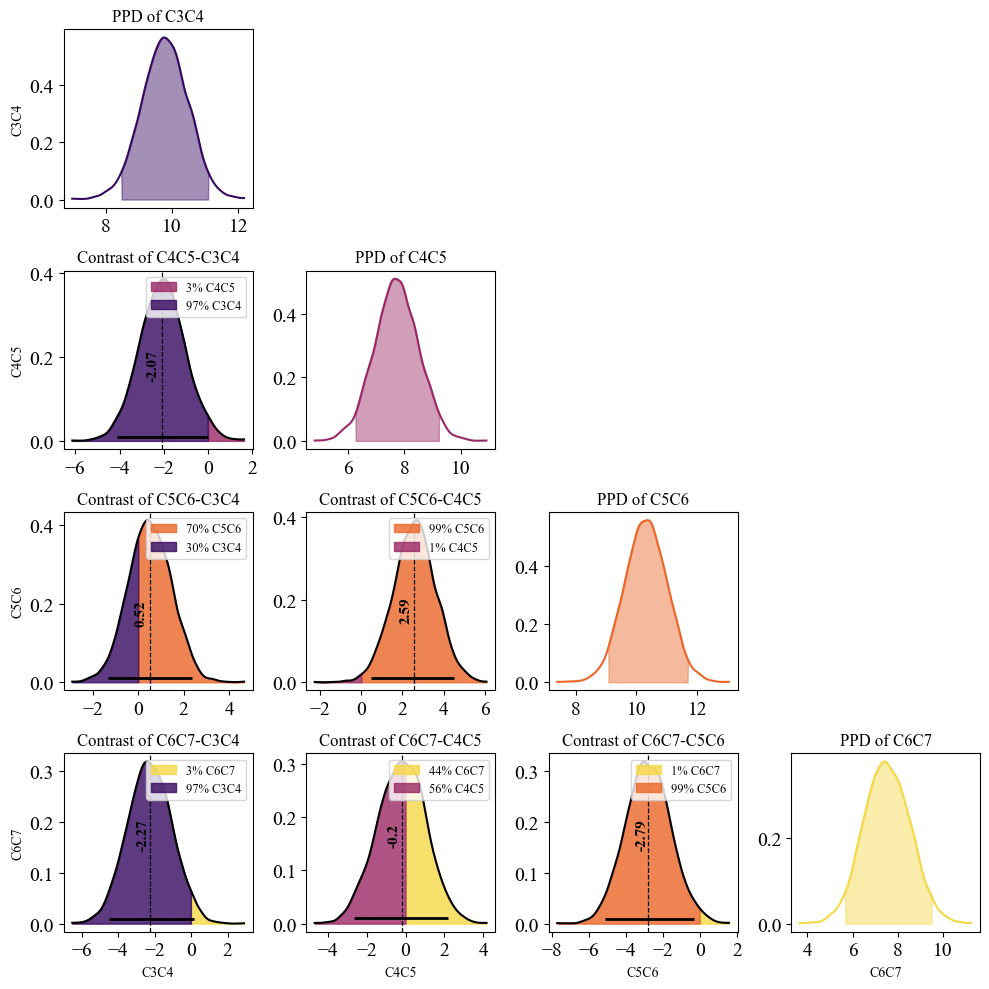
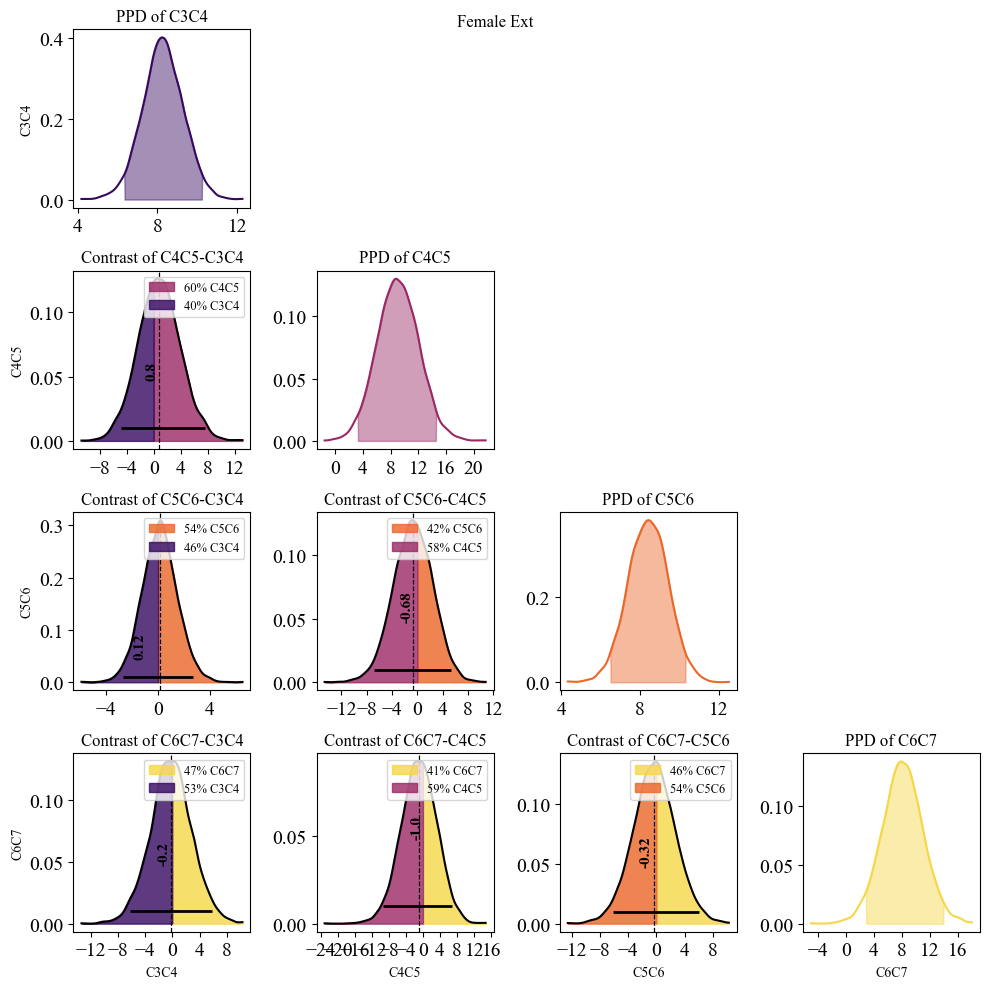
edit ppt

diff --git a/presentation.html b/presentation.html
@@ -436,7 +436,7 @@
 <p><img data-src="assets/nightingale2002.jpg" class="fragment absolute" style="top: 40%; left: 5%; width: 500px; " data-fragment-index="2"></p>
 <p><img data-src="assets/nightingale-schematic.jpg" class="fragment absolute" style="top: 27%; left: 60%; width: 400px; " data-fragment-index="3"></p>
 </div>
-<p><span class="fragment absolute" data-fragment-index="3" style="font-size: 80%;top: 68%; left: 60%; width: 400px; ">Experimental setup used by Nightingale et al.,</span></p>
+<p><span class="fragment absolute" data-fragment-index="3" style="font-size: 80%;top: 68%; left: 60%; width: 400px; ">Experimental setup used by Nightingale et al.</span></p>
 <aside class="notes">
 <p>the exp setup was same for both the nightingale studies. so it can be made as a comparable study which was not done by the original author. c spine segments were cut from unembalmed pmhs and tested in flexibility &amp; failure tests</p>
 <style type="text/css">
@@ -588,13 +588,8 @@ l_{ij} &amp;= \text{Coeff. for loading mode specific to sex}\\
 E &amp;= \text{Residual random error}\\
 \end{align}\]</span></p>
 <p><img data-src="assets/prior-pred.png" class="absolute" style="top: 33%; height: 60%; "></p>
-</div><div class="column" style="width:45%;">
-<div class="quarto-figure quarto-figure-center">
-<figure>
-<p><img data-src="assets/bayesian-model.jpg"></p>
-<figcaption>R= Segmental rotation angle at 3Nm</figcaption>
-</figure>
-</div>
+</div><div class="column" style="font-size: 68%;">
+<p><img data-src="assets/bayesian-model.jpg"> <strong>R = Segmental rotation angle at 3Nm</strong></p>
 </div></div>
 <aside class="notes">
 <p>Coming back to this study, we know that when 3nm moment is applied, the rotation would be more than 0 deg and from previous studies we know that it wont be more than 20 deg. we use that prior information as a starting point for fitting. we used a hierarchical model in which sex was treated as level. so that each flex &amp; ext have diff parameters for male &amp; female</p>
@@ -648,8 +643,8 @@ E &amp;= \text{Residual random error}\\
           display:block!important;
       }</style></aside>
 </section>
-<section id="contrast-bw-flexion-extension" class="slide level2">
-<h2>Contrast b/w Flexion &amp; Extension</h2>
+<section id="comparison-flexion-extension" class="slide level2">
+<h2>Comparison: Flexion &amp; Extension</h2>
 <div class="columns">
 <div class="column" style="width:30%;">
 <p><img data-src="assets/flex-ext.png" class="absolute" style="top: 25%; width: 375px; "></p>
@@ -673,8 +668,8 @@ E &amp;= \text{Residual random error}\\
           display:block!important;
       }</style></aside>
 </section>
-<section id="contrast-bw-female-male" class="slide level2">
-<h2>Contrast b/w Female &amp; Male</h2>
+<section id="comparison-female-male" class="slide level2">
+<h2>Comparison: Female &amp; Male</h2>
 <div class="r-stack">
 <p><img data-src="assets/contrast-loadwise0.png" class="fragment" height="575"></p>
 <p><img data-src="assets/contrast-loadwise1.png" class="fragment" height="575"></p>
@@ -701,14 +696,16 @@ E &amp;= \text{Residual random error}\\
 <li>Female cervical spine segmental kinematics <strong><em>cannot</em></strong> be considered as size-scaled versions of male</li>
 </ul>
 </section>
-<section id="future-study" class="slide level2">
-<h2>Future Study</h2>
-
-<img data-src="assets/future.png" class="quarto-figure quarto-figure-center r-stretch"></section>
 <section id="acknowledgement" class="slide level2">
 <h2>Acknowledgement</h2>
-<p>The authors would like to acknowledge support from grants ANRF-SERB-CRG (CRG/2023/004727) and SPARC (SP23241582EDSPAR008343) in India and Swedish Transport Administration/Trafikverket grant (TRV2024/107142).</p>
-</section>
+<ul>
+<li>Travel Grant for IRCOBI 2025 by Toyota</li>
+<li>ANRF-SERB-CRG (CRG/2023/004727) in India</li>
+<li>SPARC (SP23241582EDSPAR008343) in India</li>
+<li>Swedish Transport Administration/Trafikverket grant (TRV2024/107142)</li>
+</ul>
+
+<img data-src="assets/sponsors.png" class="quarto-figure quarto-figure-center r-stretch"></section>
 <section id="section-1" class="slide level2" data-background-color="white">
 <h2><img data-src="assets/title-logos.png"></h2>
 <img data-src="assets/qr.png">
@@ -956,7 +953,7 @@ l_{ij} \sim \operatorname{Normal}(0,~\sigma_{l_{i}})
 </div>
 </div>
 <aside class="notes">
-<p>poterior is the result of baye ana. &amp; reflects all we know about the problem. post is just a updated prior due to sampling in the light of a new data (fit data/ training data)</p>
+<p>meow meow</p>
 <style type="text/css">
         span.MJX_Assistive_MathML {
           position:absolute!important;
@@ -968,7 +965,11 @@ l_{ij} \sim \operatorname{Normal}(0,~\sigma_{l_{i}})
           overflow: hidden!important;
           display:block!important;
       }</style></aside>
-<div class="quarto-auto-generated-content">
+</section>
+<section id="future-study" class="slide level2">
+<h2>Future Study</h2>
+
+<img data-src="assets/future.png" class="quarto-figure quarto-figure-center r-stretch"><div class="quarto-auto-generated-content">
 <div class="footer footer-default">
 <p>Comparison of Flexion–Extension Responses between Male and Female sub-Axial Cervical Spine Segments</p>
 </div>
